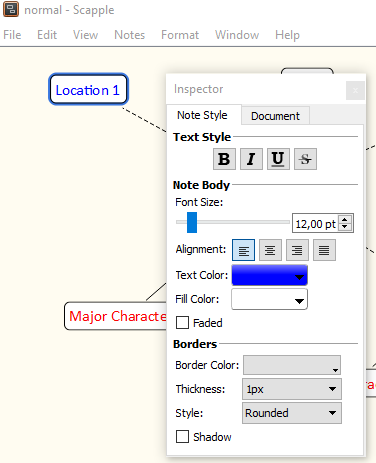
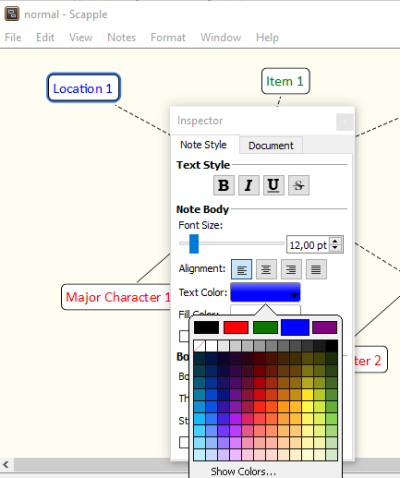
Update documentation.

diff --git a/docs/usage.md b/docs/usage.md
@@ -29,6 +29,54 @@ The path of the Scapple outline file.
 
 `--silent`  suppress error messages and the request to confirm overwriting
 
+## Conversion rules
+
+The column labels refer to the example timeline "Murder on the Orient Express". 
+
+- Notes with a shadow are converted to regular scenes. 
+- Notes with red text are converted to major characters. Tick the big red field above the text color swatch in the Inspector.
+- Notes with purple text are converted to minor characters. Tick the big purple field above the text color swatch in the Inspector.
+- Notes with blue text are converted to locations. 
+- Notes with green text are converted to items. Tick the big green field above the text color swatch in the Inspector.
+- Assign characters/locations/items to a scene by connecting the corresponding notes.
+- Assign a viewpoint character to a scene by creating an arrow pointing from the character to the scene. It a scene is pointed to by several characters, or by no character, the viewpoint is random.
+
+## How to mark notes for export
+
+### Import styles (optional)
+
+The scappex distribution comes with a sample Scapple project *styles.scap* including all required styles. You can either use this diagram as a template, or import the styles into your own Scapple diagram. 
+
+![Screenshot: Import styles dialog](Screenshots/import_styles.png)
+
+In the file picker dialog, select ´<unzipped scappex release folder>\sample\styles.scap´. Then you can apply the styles via context menu.
+
+![Screenshot: Apply style menu](Screenshots/apply_styles.png)
+
+### Mark scenes
+
+Either apply the "Scene" style, if any, via context menu, or tick "Shadow" in the Inspector to mark the note as scene.
+
+![Screenshot: Set note shadow](Screenshots/mark_scene.png)
+
+### Mark locations
+
+Either apply the "Location" style, if any, via context menu, or tick the big blue field above the text color swatch in the Inspector.
+
+![Screenshot: Set text color](Screenshots/mark_location.png)
+
+### Mark major characters
+
+Either apply the "Major character" style, if any, via context menu, or tick the big red field above the text color swatch in the Inspector.
+
+### Mark minor characters
+
+Either apply the "Minor character" style, if any, via context menu, or tick the big purple field above the text color swatch in the Inspector.
+
+### Mark items
+
+Either apply the "Item" style, if any, via context menu, or tick the big green field above the text color swatch in the Inspector.
+
 
 ## Custom configuration
 
@@ -76,21 +124,6 @@ export_locations = Yes
 export_items = Yes
 
 ```
-
-## Conversion rules
-
-The column labels refer to the example timeline "Murder on the Orient Express". 
-
-- Notes with a shadow are converted to regular scenes. Tick "Shadow" in the Inspector to mark the note as scene.
-  ![Screenshot: Set text color](Screenshots/mark_scene.png)
-- Notes with red text are converted to major characters. Tick the big red field above the text color swatch in the Inspector.
-- Notes with purple text are converted to minor characters. Tick the big purple field above the text color swatch in the Inspector.
-- Notes with blue text are converted to locations. Tick the big blue field above the text color swatch in the Inspector.
-  ![Screenshot: Set text color](Screenshots/mark_location.png)
-- Notes with green text are converted to items. Tick the big green field above the text color swatch in the Inspector.
-- Assign characters/locations/items to a scene by connecting the corresponding notes.
-- Assign a viewpoint character to a scene by creating an arrow pointing from the character to the scene. It a scene is pointed to by several characters, or by no character, the viewpoint is random.
-
 
 ## Installation path
 
